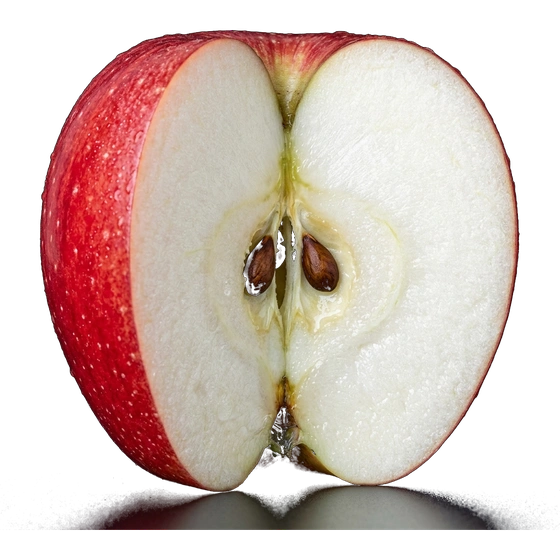
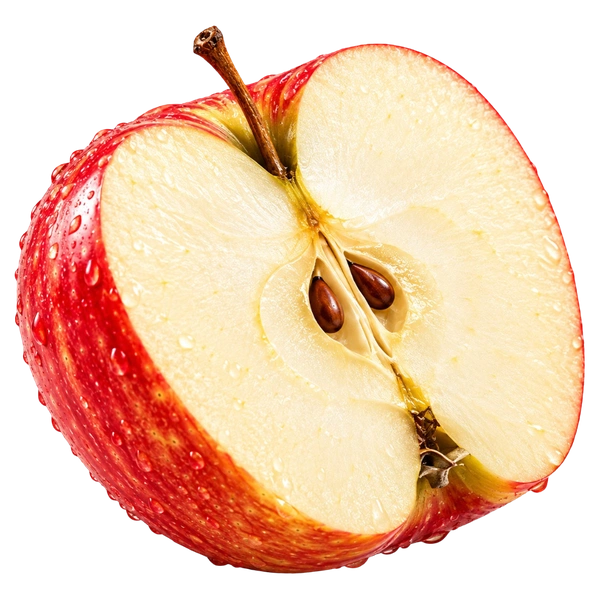
feat(dry-fruits): replace apple assets with exact cuts from background manzanas folder

diff --git a/preview/collection.html b/preview/collection.html
@@ -1234,7 +1234,7 @@ window.__adds=[];</script>
 
     <div class="cc-cursor" data-cc-cursor aria-hidden="true"><span data-cc-cursor-label></span></div>
   </section><script type="application/json" data-cc-fx-assets>
-{ "ice": "../shopify-theme/assets/ing-ice.webp", "lime-wheel": "../shopify-theme/assets/ing-lime-wheel.webp", "lime-half": "../shopify-theme/assets/ing-lime-half.webp", "lemon-wheel": "../shopify-theme/assets/ing-lemon-wheel.webp", "lemon-twist": "../shopify-theme/assets/ing-lemon-twist.webp", "orange-wheel": "../shopify-theme/assets/ing-orange-wheel.webp", "orange-peel": "../shopify-theme/assets/ing-orange-peel.webp", "grapefruit-half": "../shopify-theme/assets/ing-grapefruit-half.webp", "pineapple-wedge": "../shopify-theme/assets/ing-pineapple-wedge.webp", "pineapple-dry": "../shopify-theme/assets/ing-pineapple-dry.webp", "pineapple-twist": "../shopify-theme/assets/ing-pineapple-twist.webp", "peach": "../shopify-theme/assets/ing-peach.webp", "cranberries": "../shopify-theme/assets/ing-cranberries.webp", "mint": "../shopify-theme/assets/ing-mint.webp", "coffee-beans": "../shopify-theme/assets/ing-coffee-beans.webp", "ginger": "../shopify-theme/assets/ing-ginger.webp", "coconut-half": "../shopify-theme/assets/ing-coconut-half.webp", "agave": "../shopify-theme/assets/ing-agave.webp", "sugar-cubes": "../shopify-theme/assets/ing-sugar-cubes.webp", "juniper": "../shopify-theme/assets/ing-juniper.webp", "cherry": "../shopify-theme/assets/ing-cherry.webp", "sea-salt": "../shopify-theme/assets/ing-sea-salt.webp", "olive": "../shopify-theme/assets/ing-olive.webp", "apple": "../shopify-theme/assets/ing-apple.webp", "apple-half": "../shopify-theme/assets/ing-apple-half.webp", "apple-peel": "../shopify-theme/assets/ing-apple-peel.webp" }
+{ "ice": "../shopify-theme/assets/ing-ice.webp", "lime-wheel": "../shopify-theme/assets/ing-lime-wheel.webp", "lime-half": "../shopify-theme/assets/ing-lime-half.webp", "lemon-wheel": "../shopify-theme/assets/ing-lemon-wheel.webp", "lemon-twist": "../shopify-theme/assets/ing-lemon-twist.webp", "orange-wheel": "../shopify-theme/assets/ing-orange-wheel.webp", "orange-peel": "../shopify-theme/assets/ing-orange-peel.webp", "grapefruit-half": "../shopify-theme/assets/ing-grapefruit-half.webp", "pineapple-wedge": "../shopify-theme/assets/ing-pineapple-wedge.webp", "pineapple-dry": "../shopify-theme/assets/ing-pineapple-dry.webp", "pineapple-twist": "../shopify-theme/assets/ing-pineapple-twist.webp", "peach": "../shopify-theme/assets/ing-peach.webp", "cranberries": "../shopify-theme/assets/ing-cranberries.webp", "mint": "../shopify-theme/assets/ing-mint.webp", "coffee-beans": "../shopify-theme/assets/ing-coffee-beans.webp", "ginger": "../shopify-theme/assets/ing-ginger.webp", "coconut-half": "../shopify-theme/assets/ing-coconut-half.webp", "agave": "../shopify-theme/assets/ing-agave.webp", "sugar-cubes": "../shopify-theme/assets/ing-sugar-cubes.webp", "juniper": "../shopify-theme/assets/ing-juniper.webp", "cherry": "../shopify-theme/assets/ing-cherry.webp", "sea-salt": "../shopify-theme/assets/ing-sea-salt.webp", "olive": "../shopify-theme/assets/ing-olive.webp", "apple": "../shopify-theme/assets/ing-apple.webp", "apple-half": "../shopify-theme/assets/ing-apple-half.webp", "apple-peel": "../shopify-theme/assets/ing-apple-peel.webp", "apple-whole": "../shopify-theme/assets/ing-apple-whole.webp" }
 </script>
 
 <script src="../shopify-theme/assets/can-carousel.js?v=2.2" defer="defer"></script>

diff --git a/shopify-theme/assets/can-carousel.js b/shopify-theme/assets/can-carousel.js
@@ -43,7 +43,7 @@
       'coffee-beans': 'Café', ginger: 'Jengibre', 'coconut-half': 'Coco', agave: 'Agave',
       'sugar-cubes': 'Azúcar', juniper: 'Enebro', cherry: 'Cereza', 'sea-salt': 'Sal marina',
       olive: 'Aceituna', ice: 'Hielo', 'blue-curacao': 'Blue Curaçao',
-      apple: 'Manzana Deshidratada', 'apple-half': 'Mitad de Manzana', 'apple-peel': 'Twist de Manzana'
+      apple: 'Manzana Deshidratada', 'apple-half': 'Mitad de Manzana', 'apple-peel': 'Twist de Manzana', 'apple-whole': 'Manzana Roja'
     },
     en: {
       'lime-wheel': 'Lime', 'lime-half': 'Lime', 'lemon-wheel': 'Lemon', 'lemon-twist': 'Lemon twist',
@@ -53,7 +53,7 @@
       'coffee-beans': 'Coffee', ginger: 'Ginger', 'coconut-half': 'Coconut', agave: 'Agave',
       'sugar-cubes': 'Sugar', juniper: 'Juniper', cherry: 'Cherry', 'sea-salt': 'Sea salt',
       olive: 'Olive', ice: 'Ice', 'blue-curacao': 'Blue Curaçao',
-      apple: 'Dried Apple', 'apple-half': 'Apple Half', 'apple-peel': 'Apple Twist'
+      apple: 'Dried Apple', 'apple-half': 'Apple Half', 'apple-peel': 'Apple Twist', 'apple-whole': 'Fresh Whole Apple'
     }
   };
 
@@ -79,7 +79,7 @@
     mojito: ['lime-wheel', 'mint', 'sugar-cubes', 'lime-half', 'mint', 'ice'],
     'whiskey-cream': ['coffee-beans', 'sugar-cubes', 'coffee-beans', 'sugar-cubes', 'ice'],
     'lemon-dry': ['lemon-wheel', 'lemon-twist', 'lemon-wheel', 'lemon-twist', 'lemon-wheel', 'lemon-twist'],
-    'manzana-dry': ['apple', 'apple-half', 'apple-peel', 'apple', 'apple-half', 'apple-peel'],
+    'manzana-dry': ['apple-half', 'apple-peel', 'apple-whole', 'apple', 'apple-half', 'apple-peel', 'apple'],
     'naranja-dry': ['orange-wheel', 'orange-peel', 'orange-wheel', 'orange-peel', 'orange-wheel', 'orange-peel'],
     'pina-dry': ['pineapple-dry', 'pineapple-wedge', 'pineapple-twist', 'pineapple-dry', 'pineapple-wedge', 'pineapple-twist'],
     'signature-box': ['cherry', 'orange-wheel', 'lemon-twist', 'olive', 'ice']
@@ -89,7 +89,7 @@
     'lime-wheel': 1, 'lime-half': 1, 'lemon-wheel': 1, 'lemon-twist': 0.95, 'orange-wheel': 1.05, 'orange-peel': 1.05,
     'grapefruit-half': 1.1, 'pineapple-wedge': 1.15, 'pineapple-dry': 1.1, 'pineapple-twist': 1.15, peach: 1.15, cranberries: 0.85, mint: 1, 'coffee-beans': 0.85,
     ginger: 1.1, 'coconut-half': 1.2, agave: 1.05, 'sugar-cubes': 0.85, juniper: 0.95, cherry: 0.85, 'sea-salt': 0.9,
-    olive: 1.05, ice: 0.95, 'blue-wheel': 1.05, apple: 1.15, 'apple-half': 1.2, 'apple-peel': 1.2
+    olive: 1.05, ice: 0.95, 'blue-wheel': 1.05, apple: 1.15, 'apple-half': 1.2, 'apple-peel': 1.2, 'apple-whole': 1.25
   };
 
   var FX_SLOTS = [
@@ -166,7 +166,7 @@
           can: 'pkg-manzana-dry.webp',
           chips: ['Manzana seleccionada', 'Corte estrella', 'Twist artesanal', '100% Natural sin azúcar'],
           ritual: 'Flotar 1 lámina sobre cócteles aromáticos como Manhattan, Old Fashioned o té frío botánico.',
-          recipe: ['apple', 'apple-half', 'apple-peel', 'apple', 'apple-half', 'apple-peel']
+          recipe: ['apple-half', 'apple-peel', 'apple-whole', 'apple', 'apple-half', 'apple-peel', 'apple']
         },
         {
           handle: 'lemon-dry',
